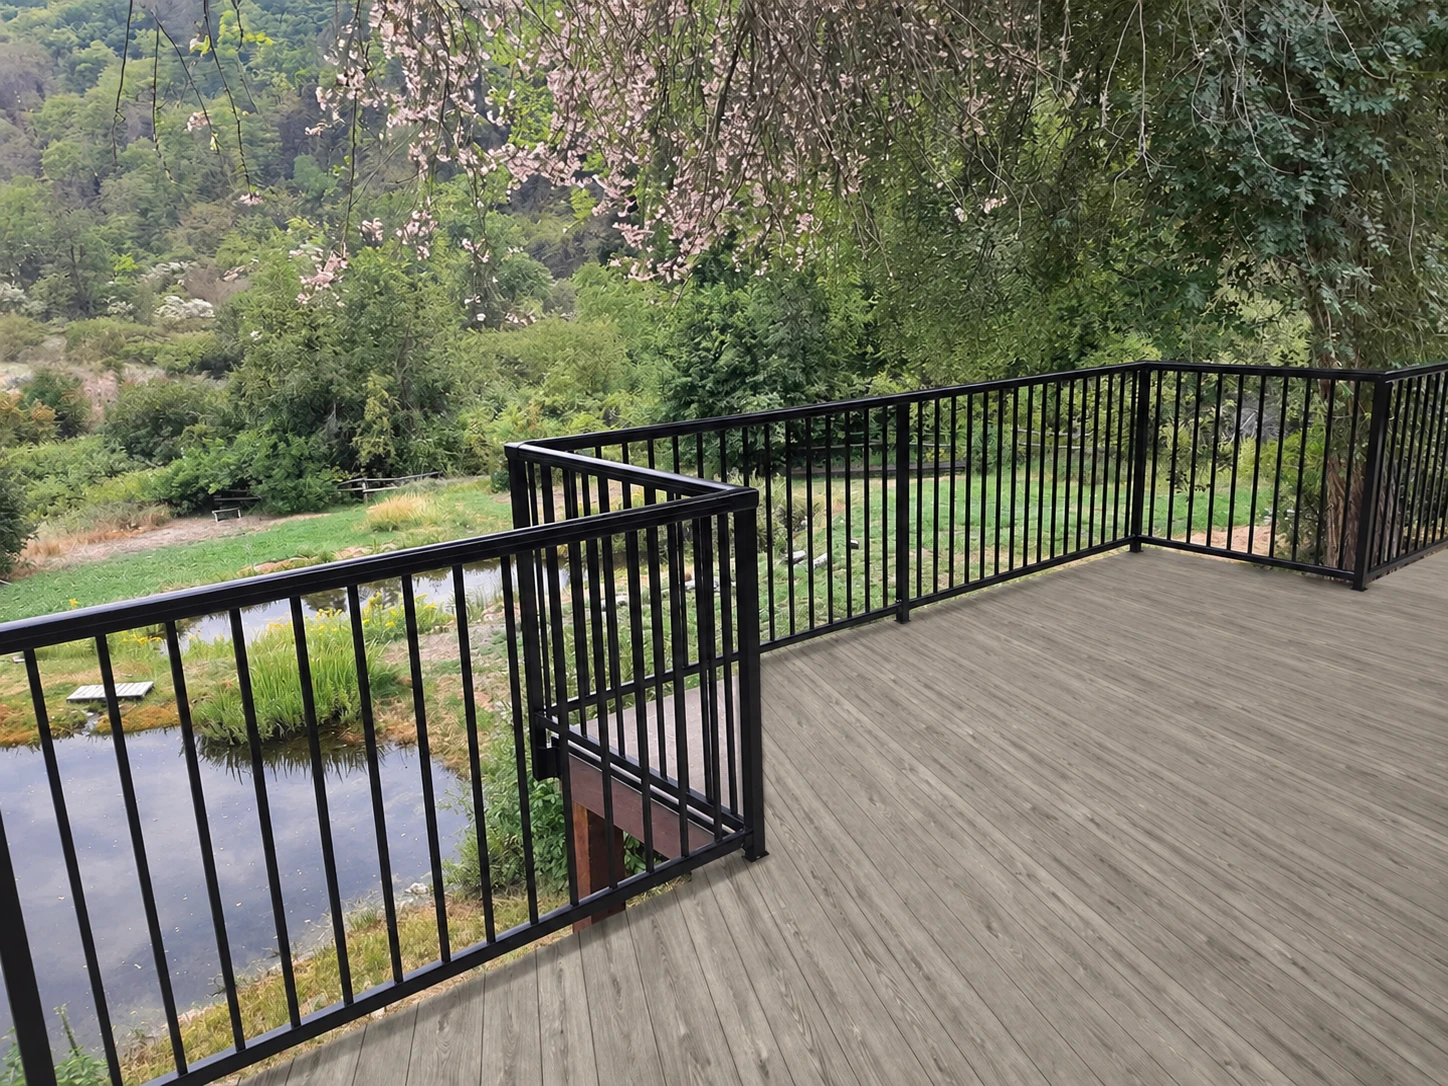
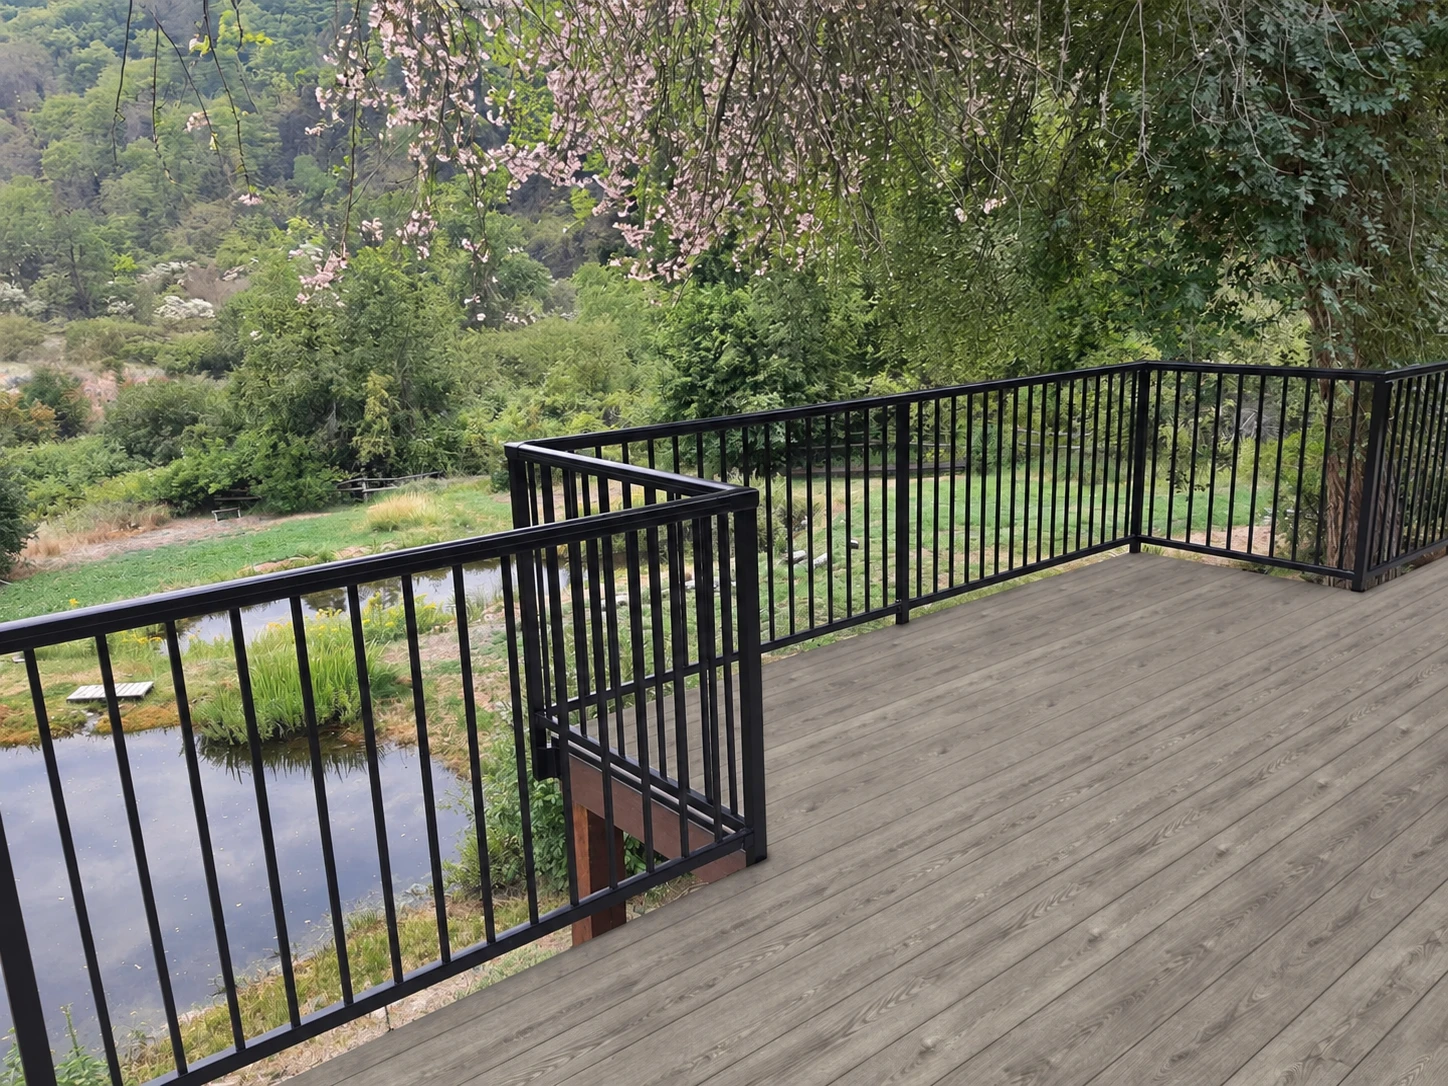
Re-lay all 15 stock woodgrains on measured deck geometry
The planks were aimed at the wrong vanishing point on all three decks,
which is what read as "diagonal". Each deck's edges are now traced to
sub-pixel and the planks and chevron spines run to the point where they
actually meet: along the railing on Oceanview and Glass rail, along the
near-left and back railings on Backyard. Floor outlines follow the traced
edges, so no wood on the glass or door frame and no bare strip at the back.

Also fixes the strips' 6 ft repeat: Ipe and Walnut had a double-wide plank
and Boardwalk a triple-wide spine where two roll widths met.

diff --git a/src/config/stockCombos.ts b/src/config/stockCombos.ts
@@ -10,48 +10,48 @@
 
 /** combo id -> short content hash of the approved file (cache key) */
 export const STOCK_COMBOS: Record<string, string> = {
-  "backyard__boardwalk": "99d4709f",
-  "backyard__driftwood": "8eebd639",
+  "backyard__boardwalk": "c2b684b3",
+  "backyard__driftwood": "0343ffca",
   "backyard__granite-brown": "35925403",
   "backyard__granite-grey": "81f8dc39",
   "backyard__granite-silver": "06ddcdfe",
   "backyard__granite-tan": "7ca735cf",
-  "backyard__hansberry": "60c2bd2d",
-  "backyard__ipe": "7bb22c82",
+  "backyard__hansberry": "9ee7289c",
+  "backyard__ipe": "a10ec829",
   "backyard__speckled-stone-brown": "dfd521be",
   "backyard__speckled-stone-grey": "037003c9",
   "backyard__speckled-stone-silver": "c7a1abbc",
   "backyard__speckled-stone-tan": "59fc5194",
   "backyard__urban-mist": "87d01fe4",
-  "backyard__walnut": "6122dbc1",
-  "glassrail__boardwalk": "672c8a4b",
-  "glassrail__driftwood": "8435e17e",
+  "backyard__walnut": "faf28dd5",
+  "glassrail__boardwalk": "2bdf91b7",
+  "glassrail__driftwood": "47d4faec",
   "glassrail__granite-brown": "83e8ed15",
   "glassrail__granite-grey": "971dc38d",
   "glassrail__granite-silver": "a16ae4ee",
   "glassrail__granite-tan": "9b59c7d1",
-  "glassrail__hansberry": "3dce68b8",
-  "glassrail__ipe": "9cd9fc8b",
+  "glassrail__hansberry": "706a8717",
+  "glassrail__ipe": "a71b71bf",
   "glassrail__speckled-stone-brown": "46c3ae1d",
   "glassrail__speckled-stone-grey": "57e46e3b",
   "glassrail__speckled-stone-silver": "31f2c8c2",
   "glassrail__speckled-stone-tan": "d1721dc4",
   "glassrail__urban-mist": "b2dc6d6e",
-  "glassrail__walnut": "e70b1908",
-  "lakeview__boardwalk": "65ba4a8c",
-  "lakeview__driftwood": "12a0eaa0",
+  "glassrail__walnut": "02952b80",
+  "lakeview__boardwalk": "771b5027",
+  "lakeview__driftwood": "68c269b0",
   "lakeview__granite-brown": "41790e18",
   "lakeview__granite-grey": "85b632b1",
   "lakeview__granite-silver": "441a3a9b",
   "lakeview__granite-tan": "9da43966",
-  "lakeview__hansberry": "c07c6b0a",
-  "lakeview__ipe": "6c49b27a",
+  "lakeview__hansberry": "54fbb4bd",
+  "lakeview__ipe": "be8e824f",
   "lakeview__speckled-stone-brown": "4d1c6c58",
   "lakeview__speckled-stone-grey": "fd4ea3bb",
   "lakeview__speckled-stone-silver": "04b6a9ca",
   "lakeview__speckled-stone-tan": "b0de2616",
   "lakeview__urban-mist": "2354e021",
-  "lakeview__walnut": "eefd24da"
+  "lakeview__walnut": "a3040df4"
 };
 
 export function hasStockCombo(layoutId: string, sku: string): boolean {
